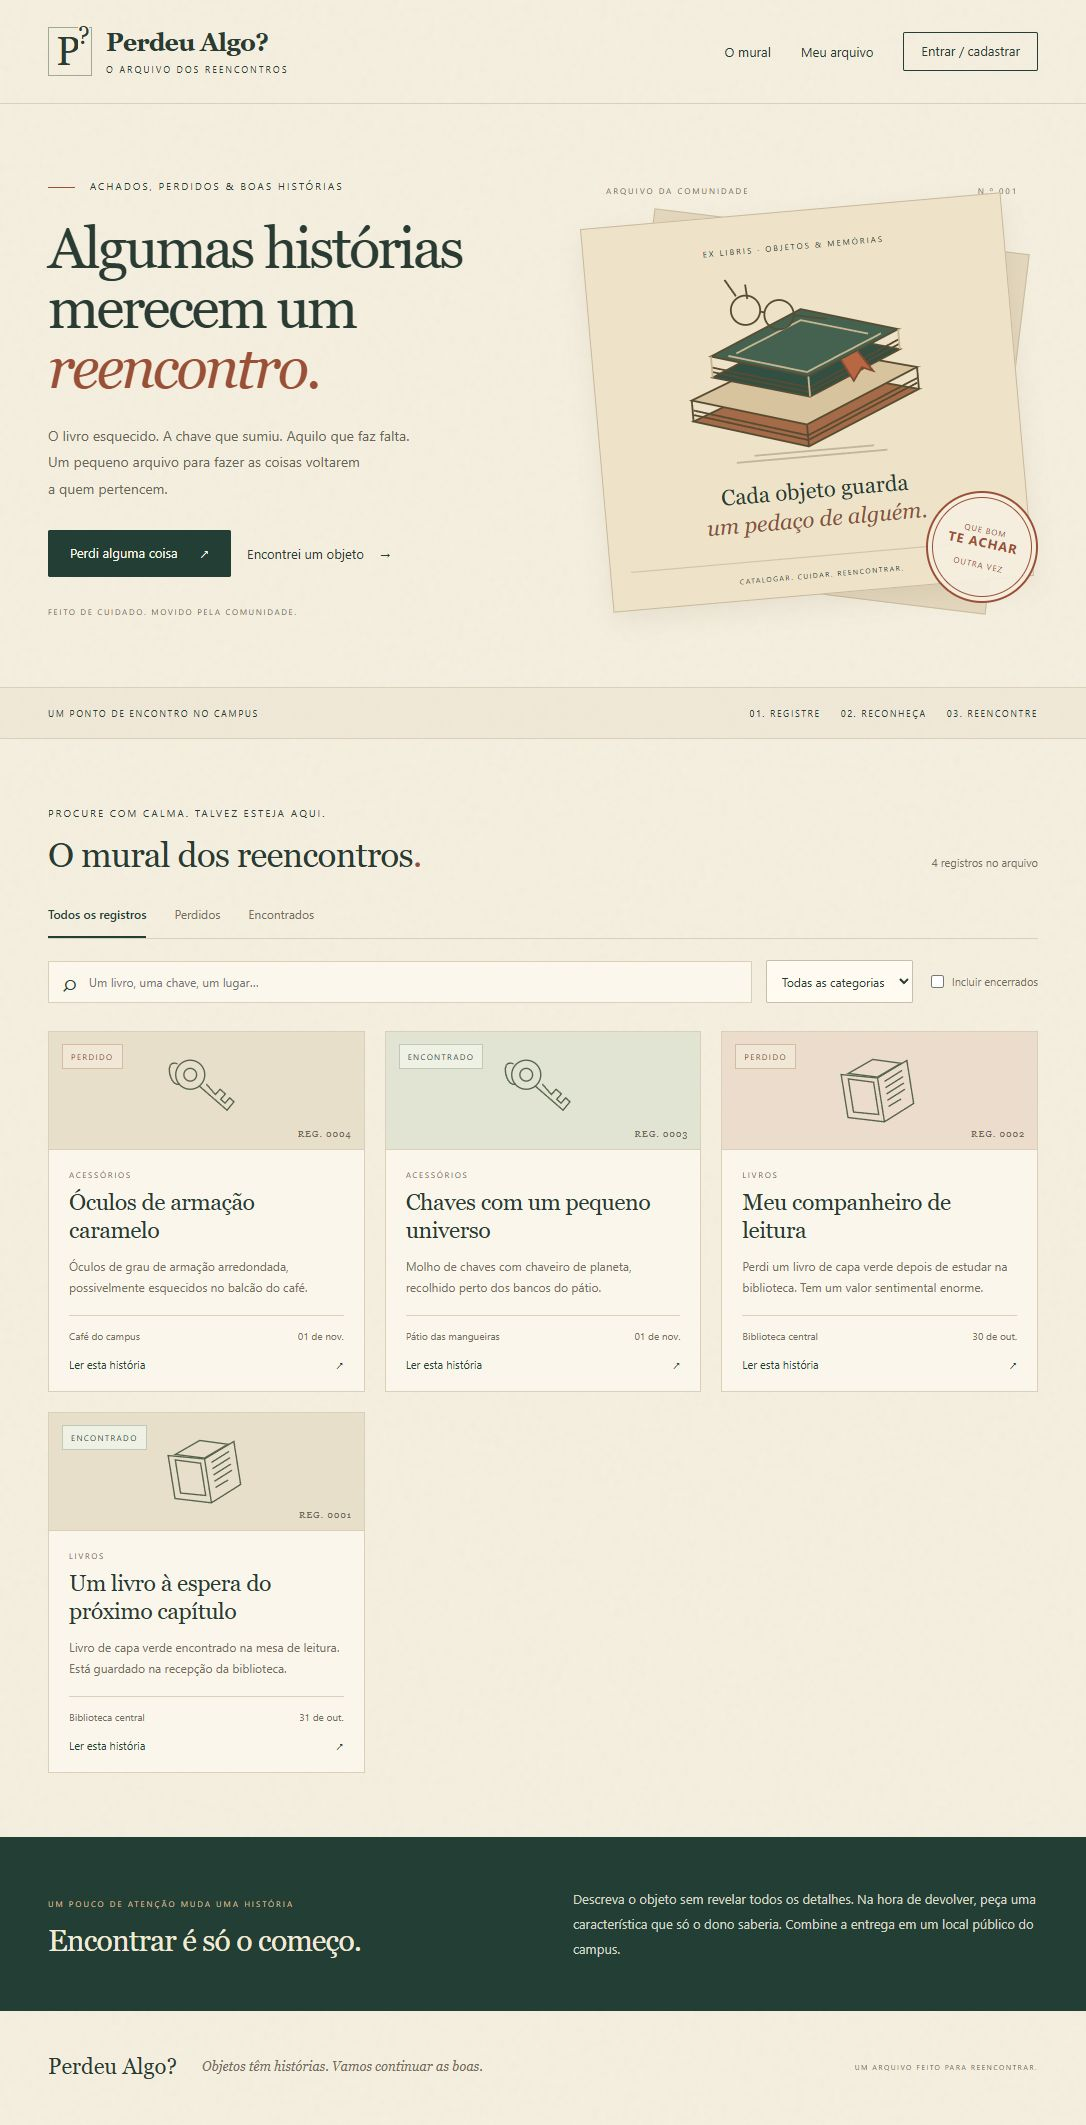
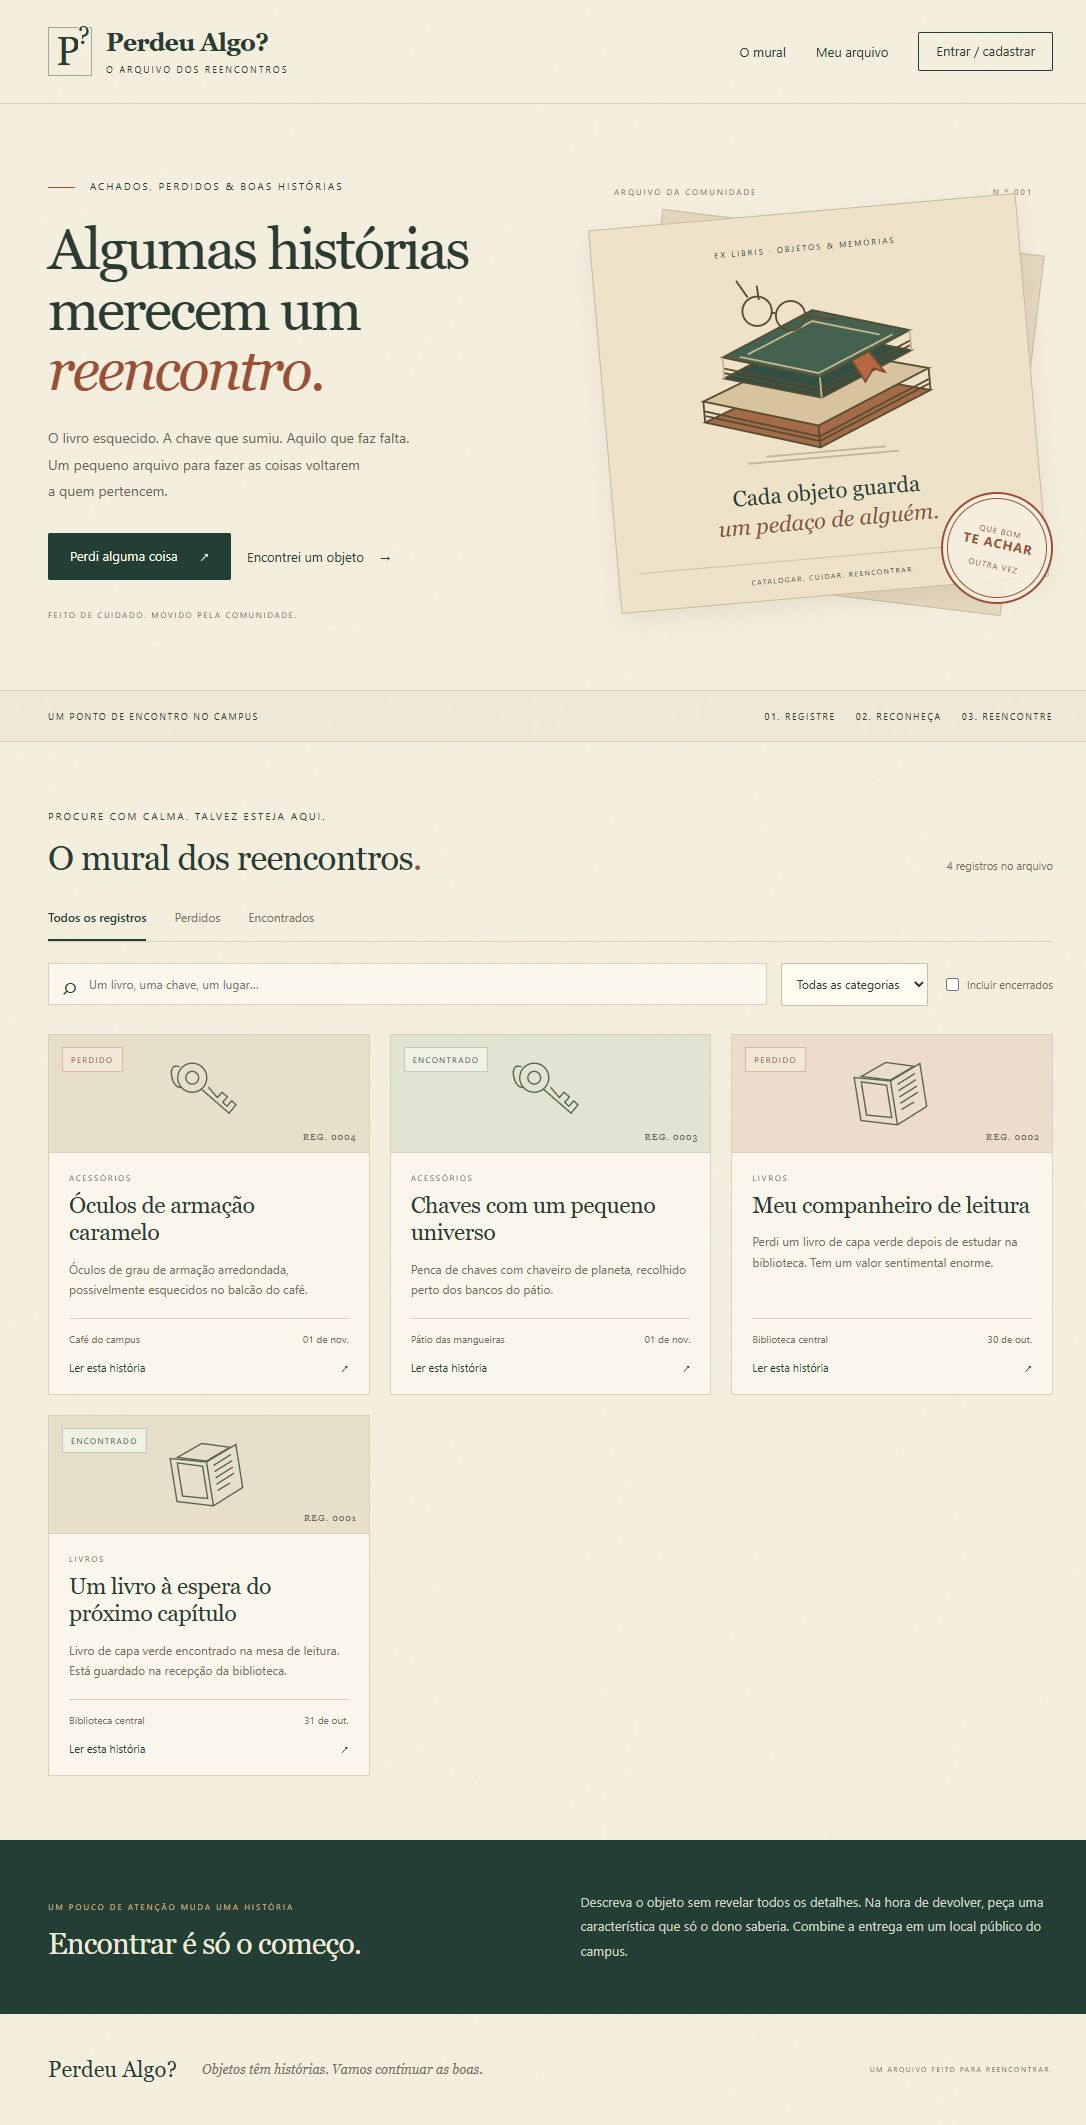
Troca a descrição das chaves e atualiza as imagens.

diff --git a/src/PerdeuAlgo/Program.cs b/src/PerdeuAlgo/Program.cs
@@ -91,7 +91,7 @@ if (args.Contains("--seed"))
         var today = DateOnly.FromDateTime(DateTime.Now);
         service.Create(a.Id, new("found", "Um livro à espera do próximo capítulo", "Livros", "Biblioteca central", today.AddDays(-1), "Livro de capa verde encontrado na mesa de leitura. Está guardado na recepção da biblioteca.", "Há uma dedicatória manuscrita na primeira página."));
         service.Create(b.Id, new("lost", "Meu companheiro de leitura", "Livros", "Biblioteca central", today.AddDays(-2), "Perdi um livro de capa verde depois de estudar na biblioteca. Tem um valor sentimental enorme.", ""));
-        service.Create(a.Id, new("found", "Chaves com um pequeno universo", "Acessórios", "Pátio das mangueiras", today, "Molho de chaves com chaveiro de planeta, recolhido perto dos bancos do pátio.", "Uma das chaves tem a cabeça pintada de azul."));
+        service.Create(a.Id, new("found", "Chaves com um pequeno universo", "Acessórios", "Pátio das mangueiras", today, "Penca de chaves com chaveiro de planeta, recolhido perto dos bancos do pátio.", "Uma das chaves tem a cabeça pintada de azul."));
         service.Create(b.Id, new("lost", "Óculos de armação caramelo", "Acessórios", "Café do campus", today, "Óculos de grau de armação arredondada, possivelmente esquecidos no balcão do café.", ""));
     }
 }
